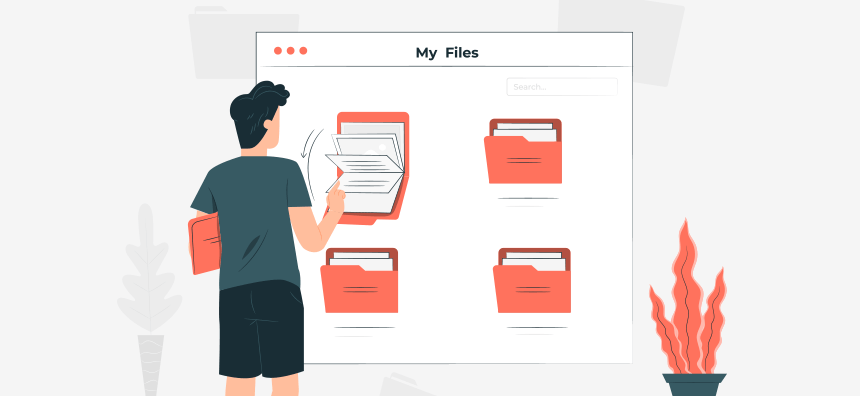
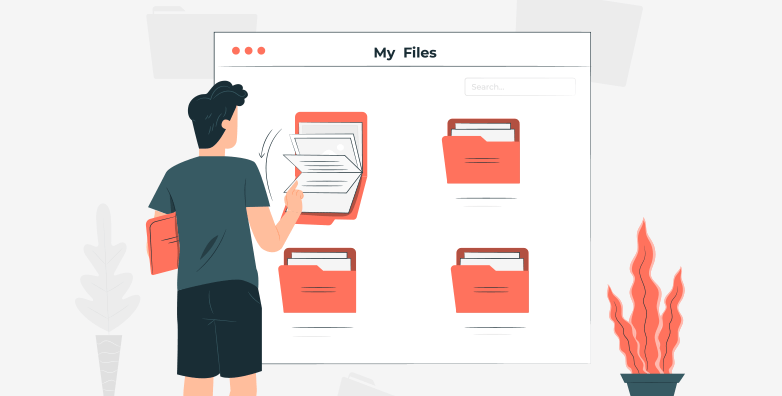
using webstorm now. landing page is totally done. next is login page

diff --git a/React/recipe-realm-app/src/LandingPage/LandingPage.css b/React/recipe-realm-app/src/LandingPage/LandingPage.css
@@ -46,25 +46,25 @@
 
 .search-bar-text-container {
     position: absolute;
-    top: 123%;
+    top: 125%;
     left: 50%;
 }
 
 .food-dish-text-container {
     position: absolute;
     top: 188%;
-    left: 2.5%;
+    left: 7%;
 }
 
 .files-text-container {
     position: absolute;
-    top: 255%;
-    left: 62%;
+    top: 251%;
+    left: 60%;
 }
 
 .shopping-list-text-container {
     position: absolute;
-    top: 317%;
+    top: 314%;
     left: 5.25%;
 }
 
@@ -87,11 +87,14 @@
 
 .bg-image {
     height: 100vh;
+    width: auto;
     background-image: url("FoodOnTable_RR.jpg");
     background-size: cover;
 }
 
 .search-bar-img {
+    width: 47.5%;
+    height: auto;
     position: relative;
     margin-top: 40px;
     left: 2.5%;
@@ -99,17 +102,23 @@
 }
 
 .food-dish-img {
+    width: 55%;
+    height: auto;
     position: relative;
-    left: 36%;
+    left: 41%;
 }
 
 .files-img {
+    height: 25%;
+    width: auto;
     position: relative;
     margin-top: 50px;
     left: 2.5%;
 }
 
 .shopping-list-img {
+    width: 50%;
+    height: auto;
     position: relative;
     margin-top: 50px;
     left: 46%;

diff --git a/React/recipe-realm-app/src/LandingPage/LandingPage.js b/React/recipe-realm-app/src/LandingPage/LandingPage.js
@@ -38,6 +38,7 @@ const LandingPage = () => {
             setName('');
             setEmail('');
             setPassword('');
+            navigate('/home');
         }
     };
 
@@ -66,11 +67,6 @@ const LandingPage = () => {
 
         // Append the alert element to the body or a specific container
         document.body.appendChild(alertElement);
-
-        // // Optionally, you can set a timeout to automatically dismiss the alert after a certain duration
-        // setTimeout(() => {
-        //     alertElement.remove();
-        // }, 5000); // Remove the alert after 5 seconds (adjust as needed)
     };
 
     const validateAccountCreation = (name, email, password) => {
@@ -205,7 +201,7 @@ const LandingPage = () => {
                 </div>
 
                 <div>
-                    <button type="submit" className="btn btn-dark btn-lg login-btn" onClick={() => navigate('/Login')}>
+                    <button type="submit" className="btn btn-dark btn-lg login-btn" onClick={() => navigate('/login')}>
                         Log In
                     </button>
                 </div>

diff --git a/React/recipe-realm-app/src/App/App.js b/React/recipe-realm-app/src/App/App.js
@@ -2,6 +2,7 @@ import React from 'react';
 import { BrowserRouter, Route, Routes} from 'react-router-dom';
 import LandingPage from '../LandingPage/LandingPage';
 import Login from '../Login/Login';
+import Home from '../Home/Home';
 
 function App() {
     return (
@@ -9,6 +10,7 @@ function App() {
             <Routes>
                 <Route path="/" exact element={<LandingPage />} />
                 <Route path="/login" exact element={<Login />} />
+                <Route path="/home" exact element={<Home />} />
             </Routes>
         </BrowserRouter>
     );

diff --git a/React/recipe-realm-app/src/Home/Home.js b/React/recipe-realm-app/src/Home/Home.js
@@ -1,0 +1,11 @@
+import React from 'react';
+
+const Home = () => {
+    return (
+        <div>
+            <p>Welcome to home page</p>
+        </div>
+    )
+}
+
+export default Home
